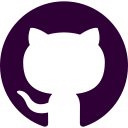
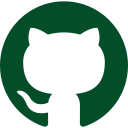
color design change: green

diff --git a/index.html b/index.html
@@ -36,7 +36,7 @@
 
 <div id="main">
 
-       <div id="down-arrow"><i class="fa fa-regular fa-circle-down" style="color: #2E0036;"></i></div>
+       <div id="down-arrow"><i class="fa fa-regular fa-circle-down" style="color: #044D29"></i></div>
 
     <header id="header">
         <div class="intro">
@@ -59,7 +59,7 @@
 
     <div id="boxes">
 
-        <div class="box box-1" data-bgcolor="#1F2041" style="background-color: #2E0036;">
+        <div class="box box-1" data-bgcolor="#1F2041" style="background-color: #044D29">
             <a href="#about" id="about-link" class="panel-open">
                 <div class="box-content">
                     <div class="content_move">
@@ -76,7 +76,7 @@
             </a>
         </div>
 
-        <div class="box box-2" data-bgcolor="#422040" style="background-color: #632838;">
+        <div class="box box-2" data-bgcolor="#422040" style="background-color: #168039">
             <a href="#resume" id="resume-link" class="panel-open">
                 <div class="box-content">
                     <div class="content_move">
@@ -93,7 +93,7 @@
             </a>
         </div>
 
-        <div class="box box-3" data-bgcolor="#782347" style="background-color: #4A0719;">
+        <div class="box box-3" data-bgcolor="#782347" style="background-color: #45BF55">
             <a href="#contact" id="contact-link" class="panel-open">
                 <div class="box-content">
                     <div class="content_move">
@@ -121,7 +121,7 @@
 
 <div id="panels">
     <article id="about" class="panel hidden">
-        <div class="panel-inner" data-bordercolor="#1F2041" style="border-color: #2E0036;">
+        <div class="panel-inner" data-bordercolor="#044D29" style="border-color: #044D29">
 
             <div class="panel-close">
                 <img src="img/close-window-white.png" />
@@ -168,8 +168,8 @@ focus on details and the capacity to perform tasks meticulously.</p>
         </div>
     </article>
     <article id="resume" class="panel hidden">
-        <div class="panel-inner" data-bordercolor="#422040"
-        style="border-color: #632838;">
+        <div class="panel-inner" data-bordercolor="#168039"
+        style="border-color: #168039">
 
         <div class="panel-close">
             <img src="img/close-window-white.png" />
@@ -191,7 +191,6 @@ focus on details and the capacity to perform tasks meticulously.</p>
                         <h6>Maraton Goit (HTML5, CSS3)</h6>
                         <p><strong>2022</strong></p>
                     </div>
-                    <div class="resume-date">2022</div>
                 </div>
             </div>
         
@@ -201,7 +200,6 @@ focus on details and the capacity to perform tasks meticulously.</p>
                         <h6>HTML and CSS: Design and Build Websites, Jon Duckett</h6>
                         <p><strong>2023</strong></p>
                     </div>
-                    <div class="resume-date">2023</div>
                 </div>
             </div>
             <div class="resume-box">
@@ -210,7 +208,6 @@ focus on details and the capacity to perform tasks meticulously.</p>
                         <h6>The Complete JavaScript Course 2023: From Zero to Expert!</h6>
                         <p><strong>2023</strong></p>
                     </div>
-                    <div class="resume-date">2023</div>
                 </div>
             </div>
 <hr>
@@ -222,7 +219,6 @@ focus on details and the capacity to perform tasks meticulously.</p>
                         <h6>University of Warmia and Mazury in Olsztyn</h6>
                         <p><strong>2013-2019</strong></p>
                     </div>
-                    <div class="resume-date">2013</div>
                 </div>
                 <div class="resume-content">
                     <p>Veterinary Medicine</p>
@@ -256,8 +252,8 @@ focus on details and the capacity to perform tasks meticulously.</p>
         </div>
     </article>
     <article id="contact" class="panel hidden">
-        <div class="panel-inner" data-bordercolor="#782347"
-        style="border-color: #4A0719;">
+        <div class="panel-inner" data-bordercolor="#45BF55"
+        style="border-color: #45BF55;">
 
         <div class="panel-close">
             <img src="img/close-window-white.png" />

diff --git a/style.css b/style.css
@@ -95,7 +95,7 @@ header {
 
 /* My name */
 h1 {
-  color: #2e0036;
+  color: #044d29;
   word-spacing: 0.1rem;
   text-align: center;
   font-size: 100px;
@@ -142,7 +142,7 @@ h1 {
   font-size: 2.8rem;
   letter-spacing: 0.1rem;
   color: white;
-  opacity: 0.1;
+  opacity: 0.2;
   font-weight: bold;
   transform: rotate(90deg);
 }
@@ -164,7 +164,7 @@ b {
 }
 
 .box-content p {
-  opacity: 0.7;
+  opacity: 0.8;
   font-size: 1.1rem;
   padding: 10px 0;
 }
@@ -188,7 +188,7 @@ footer {
   width: 100%;
   padding: 1.3rem 0;
   font-size: 0.9rem;
-  background-color: #2e0036;
+  background-color: #044d29;
   color: white;
   margin: -1px 0px;
 }
@@ -379,16 +379,6 @@ strong {
 .title-container h6 {
   color: #2e0036;
   font-size: 22px;
-}
-
-.resume-title .resume-date {
-  color: #ffffff;
-  position: absolute;
-  bottom: -23%;
-  right: -10px;
-  font-size: 80px;
-  font-family: "open-sansbold";
-  z-index: 1;
 }
 
 .resume-content {
@@ -602,7 +592,7 @@ strong {
     left: 0px;
     width: 100%;
     height: 65px;
-    background-color: #2e0036;
+    background-color: #044d29;
     margin: 0 auto;
   }
   #resume .panel-close {
@@ -610,7 +600,7 @@ strong {
     left: 0px;
     width: 100%;
     height: 65px;
-    background-color: #632838;
+    background-color: #168039;
     margin: 0 auto;
   }
   #contact .panel-close {
@@ -618,7 +608,7 @@ strong {
     left: 0px;
     width: 100%;
     height: 65px;
-    background-color: #4a0719;
+    background-color: #45bf55;
     margin: 0 auto;
   }
   .panel-close img {
@@ -635,14 +625,14 @@ strong {
   }
 
   #about .panel-up {
-    background-color: #2e0036;
+    background-color: #044d29;
   }
 
   #resume .panel-up {
-    background-color: #632838;
+    background-color: #168039;
   }
   #contact .panel-inner {
-    border-bottom: 65px solid #4a0719;
+    border-bottom: 65px solid #45bf55;
   }
   .my-photo {
     width: 90%;

diff --git a/script.js b/script.js
@@ -110,7 +110,7 @@ const arrowDownClick = function () {
   boxes.scrollIntoView({ behavior: "smooth" });
   this.style.color = "#782347";
   setTimeout(() => {
-    this.style.color = "#2E0036";
+    this.style.color = "#044D29";
   }, 1000);
 };
 
@@ -198,7 +198,7 @@ arrowDown.addEventListener("mouseover", function () {
 });
 
 arrowDown.addEventListener("mouseleave", function () {
-  this.style.color = "#2E0036";
+  this.style.color = "#044D29";
 });
 
 arrowDown.addEventListener("click", arrowDownClick);
